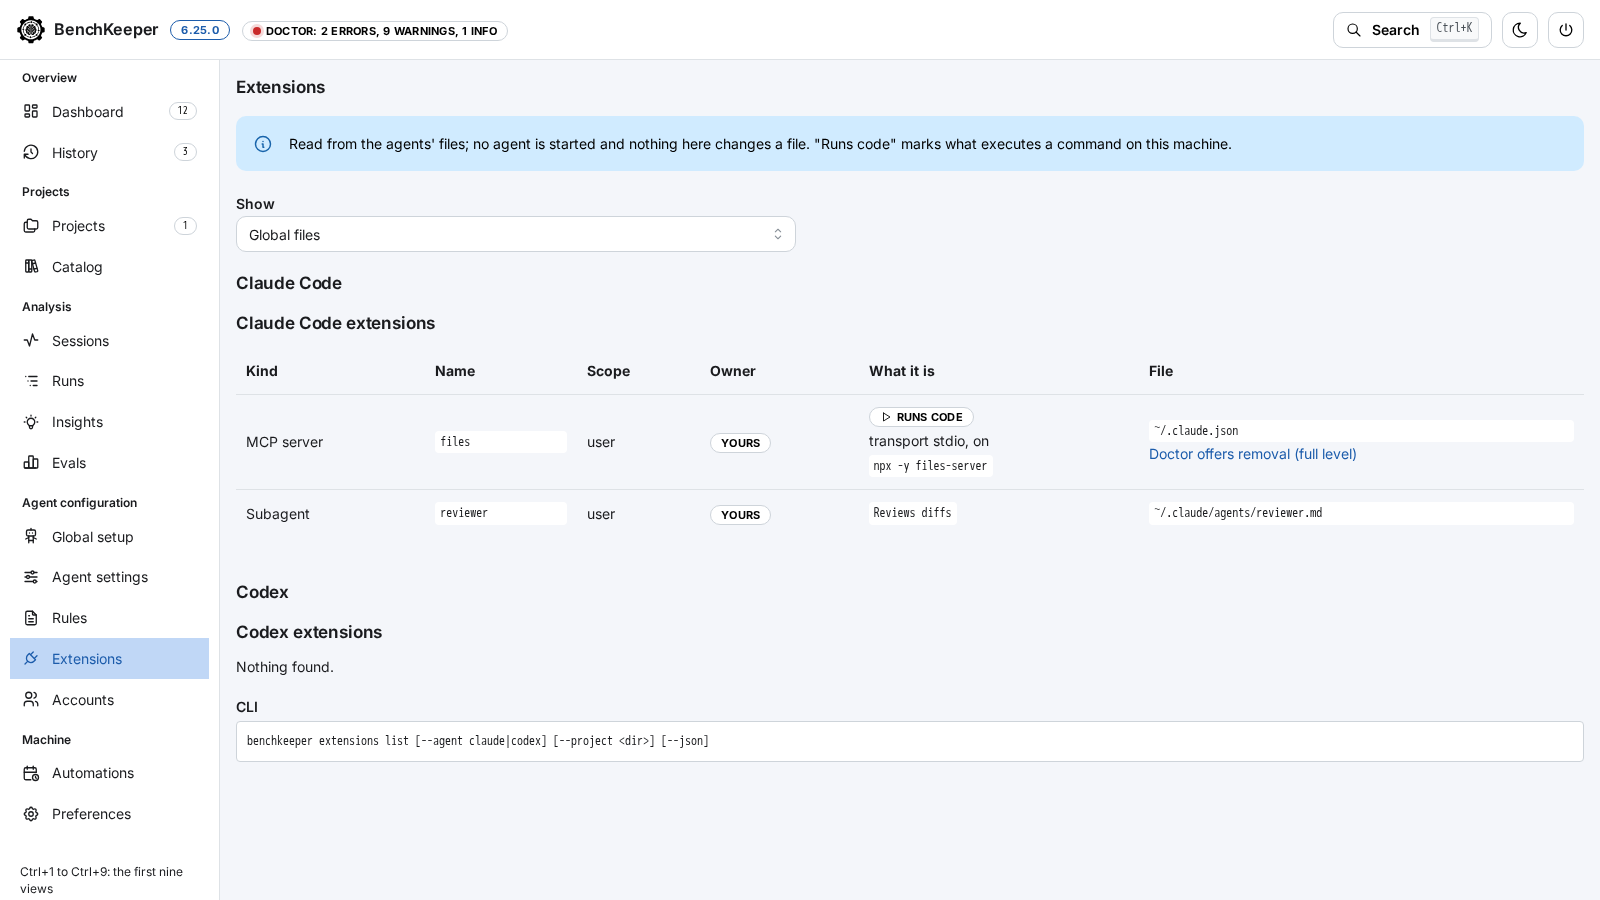
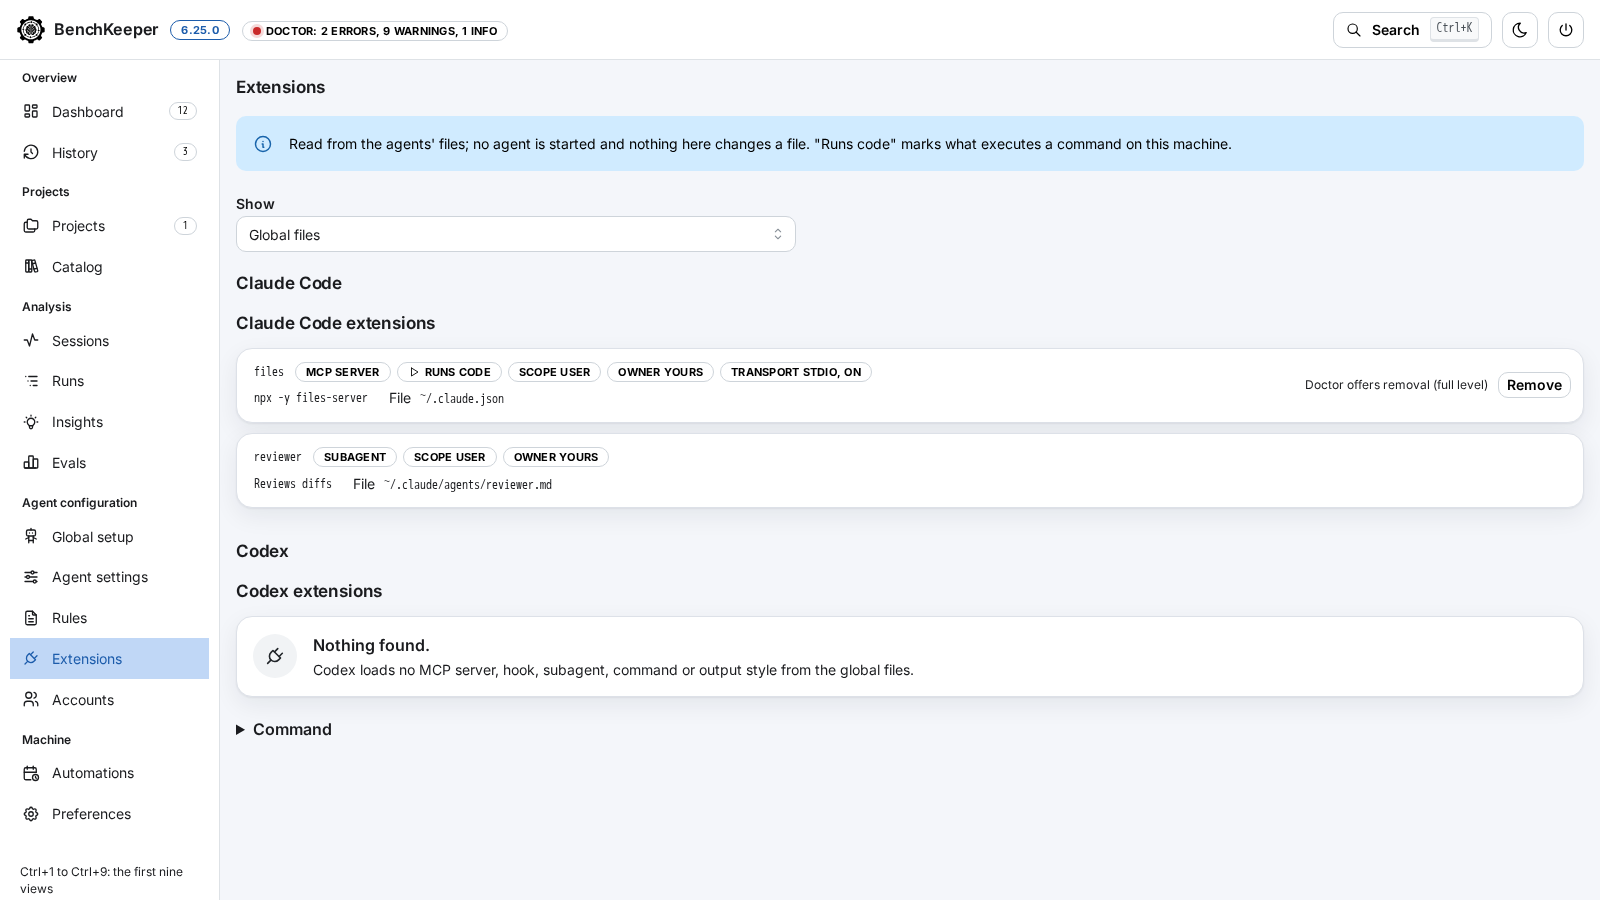
feat(app): list extensions as rows with state chips and an empty state (#842)
* feat(app): list extensions as rows with state chips and an empty state

The Extensions view shows one row per MCP server, hook, subagent, command
or output style instead of a wide table: the name and matcher, chips for
kind, runs code, scope, owner and transport or type with its state, then
what it runs and the file it comes from. An extension the Doctor can remove
has a Remove link to the Doctor's plan with the note that Doctor offers
removal at the full level. An agent without extensions shows an empty state
that names what was looked for and where. The CLI block moves into a closed
Command fold.

Refs #806

* fix(app): let the owner and transport chips wrap inside an extension row

Refs #806

* test(app): wait for the loaded Extensions section before axe runs

Refs #806

diff --git a/app/ui/extensions.jsx b/app/ui/extensions.jsx
@@ -1,38 +1,57 @@
-import { Anchor, Badge, Code, Select, Stack, Table, Text, Title } from '@mantine/core';
-import { IconPlayerPlay } from '@tabler/icons-react';
+import { Badge, Button, Code, Group, Paper, Select, Stack, Text, ThemeIcon, Title } from '@mantine/core';
+import { IconPlayerPlay, IconPlug } from '@tabler/icons-react';
 import { useState } from 'react';
 import { Cli, Section } from './parts.jsx';
 import { Loading, Note, href, icon, useApi } from './shell.jsx';
 
 const GLOBAL = 'global';
+// Owner and transport chips carry free text (a plugin id, a type): they wrap inside the row instead of widening it.
+const WRAP = { root: { maxWidth: '100%', height: 'auto' }, label: { whiteSpace: 'normal', overflowWrap: 'anywhere' } };
 const KINDS = { mcp: 'MCP server', hook: 'Hook', subagent: 'Subagent', command: 'Command', style: 'Output style' };
 
-function Rows({ agent }) {
-  if (!agent.rows.length) return <Text size="sm">Nothing found.</Text>;
+// One row per extension: name, state chips, what it runs and the file; an agent without any gets an empty state.
+function Rows({ agent, chosen }) {
+  if (!agent.rows.length) return (
+    <Paper withBorder p="md">
+      <Group gap="md" wrap="nowrap">
+        <ThemeIcon variant="light" color="gray" size="xl" radius="xl">{icon(IconPlug, 22)}</ThemeIcon>
+        <Stack gap={2}>
+          <Text fw={600}>Nothing found.</Text>
+          <Text size="sm">{agent.name} loads no MCP server, hook, subagent, command or output style from {chosen ? 'this project' : 'the global files'}.</Text>
+        </Stack>
+      </Group>
+    </Paper>
+  );
   return (
-    <Table.ScrollContainer minWidth={820} scrollAreaProps={{ viewportProps: { tabIndex: 0, role: 'region', 'aria-label': `${agent.name} extensions, scrollable` } }}>
-      <Table aria-label={`${agent.name} extensions`} verticalSpacing="sm">
-        <Table.Thead><Table.Tr><Table.Th>Kind</Table.Th><Table.Th>Name</Table.Th><Table.Th>Scope</Table.Th><Table.Th>Owner</Table.Th><Table.Th>What it is</Table.Th><Table.Th>File</Table.Th></Table.Tr></Table.Thead>
-        <Table.Tbody>
-          {agent.rows.map((r) => (
-            <Table.Tr key={`${r.kind}|${r.scope}|${r.plugin ?? ''}|${r.shown}|${r.name}|${r.matcher ?? ''}|${r.detail}`}>
-              <Table.Td>{KINDS[r.kind]}</Table.Td>
-              <Table.Td><Stack gap={2}><Code style={{ overflowWrap: 'anywhere' }}>{r.name}</Code>{r.matcher && <Text size="sm">matcher <Code>{r.matcher}</Code></Text>}</Stack></Table.Td>
-              <Table.Td>{r.scope}</Table.Td>
-              <Table.Td><Badge variant="default" miw="max-content">{r.owner}{r.plugin ? ` (${r.plugin})` : ''}</Badge></Table.Td>
-              <Table.Td>
-                <Stack gap={4} align="flex-start">
-                  {r.runsCode && <Badge variant="default" miw="max-content" leftSection={icon(IconPlayerPlay, 12)}>runs code</Badge>}
-                  {r.transport && <Text size="sm">{r.kind === 'mcp' ? 'transport' : 'type'} {r.transport}{r.state && r.state !== 'on' ? `, ${r.state}` : r.kind === 'mcp' ? ', on' : ''}</Text>}
-                  {r.detail && <Code style={{ overflowWrap: 'anywhere' }}>{r.detail}</Code>}
-                </Stack>
-              </Table.Td>
-              <Table.Td><Stack gap={2}><Code style={{ overflowWrap: 'anywhere' }}>{r.shown}</Code>{r.removal && <Anchor size="sm" href={href('agents', { plan: '1' })}>Doctor offers removal (full level)</Anchor>}</Stack></Table.Td>
-            </Table.Tr>
-          ))}
-        </Table.Tbody>
-      </Table>
-    </Table.ScrollContainer>
+    <Stack component="ul" gap="xs" aria-label={`${agent.name} extensions`} m={0} p={0} style={{ listStyle: 'none' }}>
+      {agent.rows.map((r) => (
+        <Paper component="li" withBorder p="sm" key={`${r.kind}|${r.scope}|${r.plugin ?? ''}|${r.shown}|${r.name}|${r.matcher ?? ''}|${r.detail}`}>
+          <Group justify="space-between" gap="xs">
+            <Stack gap={4} style={{ flex: '1 1 320px', minWidth: 0 }}>
+              <Group gap={6}>
+                <Code style={{ overflowWrap: 'anywhere' }}>{r.name}</Code>
+                {r.matcher && <Text size="sm">matcher <Code>{r.matcher}</Code></Text>}
+                <Badge variant="default" miw="max-content">{KINDS[r.kind]}</Badge>
+                {r.runsCode && <Badge variant="default" miw="max-content" leftSection={icon(IconPlayerPlay, 12)}>runs code</Badge>}
+                <Badge variant="default" miw="max-content">scope {r.scope}</Badge>
+                <Badge variant="default" styles={WRAP}>owner {r.owner}{r.plugin ? ` (${r.plugin})` : ''}</Badge>
+                {r.transport && <Badge variant="default" styles={WRAP}>{r.kind === 'mcp' ? 'transport' : 'type'} {r.transport}{r.state && r.state !== 'on' ? `, ${r.state}` : r.kind === 'mcp' ? ', on' : ''}</Badge>}
+              </Group>
+              <Group gap="md">
+                {r.detail && <Code style={{ overflowWrap: 'anywhere' }}>{r.detail}</Code>}
+                <Text size="sm" style={{ overflowWrap: 'anywhere' }}>File <Code>{r.shown}</Code></Text>
+              </Group>
+            </Stack>
+            {r.removal && (
+              <Group gap="xs">
+                <Text size="xs">Doctor offers removal (full level)</Text>
+                <Button component="a" href={href('agents', { plan: '1' })} size="compact-sm" variant="default" aria-label={`Remove ${r.name}`}>Remove</Button>
+              </Group>
+            )}
+          </Group>
+        </Paper>
+      ))}
+    </Stack>
   );
 }
 
@@ -53,13 +72,17 @@ export function Extensions({ overview, params }) {
               <Stack key={a.id} gap="md">
                 <Title order={2} size="h3">{a.name}</Title>
                 {a.problems.map((p) => <Note key={p.path} color="yellow"><Code>{p.shown}</Code> {p.message}.</Note>)}
-                <Section title={`${a.name} extensions${chosen ? ' for this project' : ''}`}><Rows agent={a} /></Section>
+                <Section title={`${a.name} extensions${chosen ? ' for this project' : ''}`}><Rows agent={a} chosen={chosen} /></Section>
               </Stack>
             ))}
           </Stack>
         )}
       </Loading>
-      <Cli>{'benchkeeper extensions list [--agent claude|codex] [--project <dir>] [--json]'}</Cli>
+      {/* Reference, not status: folded until opened. */}
+      <details>
+        <summary><Text component="span" fw={600}>Command</Text></summary>
+        <Stack mt="md"><Cli>{'benchkeeper extensions list [--agent claude|codex] [--project <dir>] [--json]'}</Cli></Stack>
+      </details>
     </Stack>
   );
 }

diff --git a/web/src/components/AppPage.tsx b/web/src/components/AppPage.tsx
@@ -128,7 +128,7 @@ export const VIEWS: { id: string; view: string; title: string; shot: string; alt
   },
   {
     id: 'extensions', view: 'extensions', title: 'Extensions', shot: 'extensions',
-    alt: 'The Extensions view for the global files: per agent a table of MCP servers, hooks, subagents, commands and output styles with name, scope, owner, what each is with a runs code mark, and the file it comes from.',
+    alt: 'The Extensions view for the global files: per agent one row per MCP server, hook, subagent, command or output style with its name, chips for kind, runs code, scope, owner and transport, what it runs, the file it comes from and a Remove link to the Doctor, and an empty state for an agent without extensions.',
     text: [
       'What each agent loads or runs besides rules and skills, globally or for a registered project: MCP servers, hooks, subagents, commands and output styles, with scope, owner and the file each comes from. Runs code marks what executes a command on this machine.',
       'The view reads the agents\' files only: no agent starts and nothing is written. Environment values and headers never appear; secrets in command lines are masked when their name or shape is a known one, so a secret in another form can still show.',
